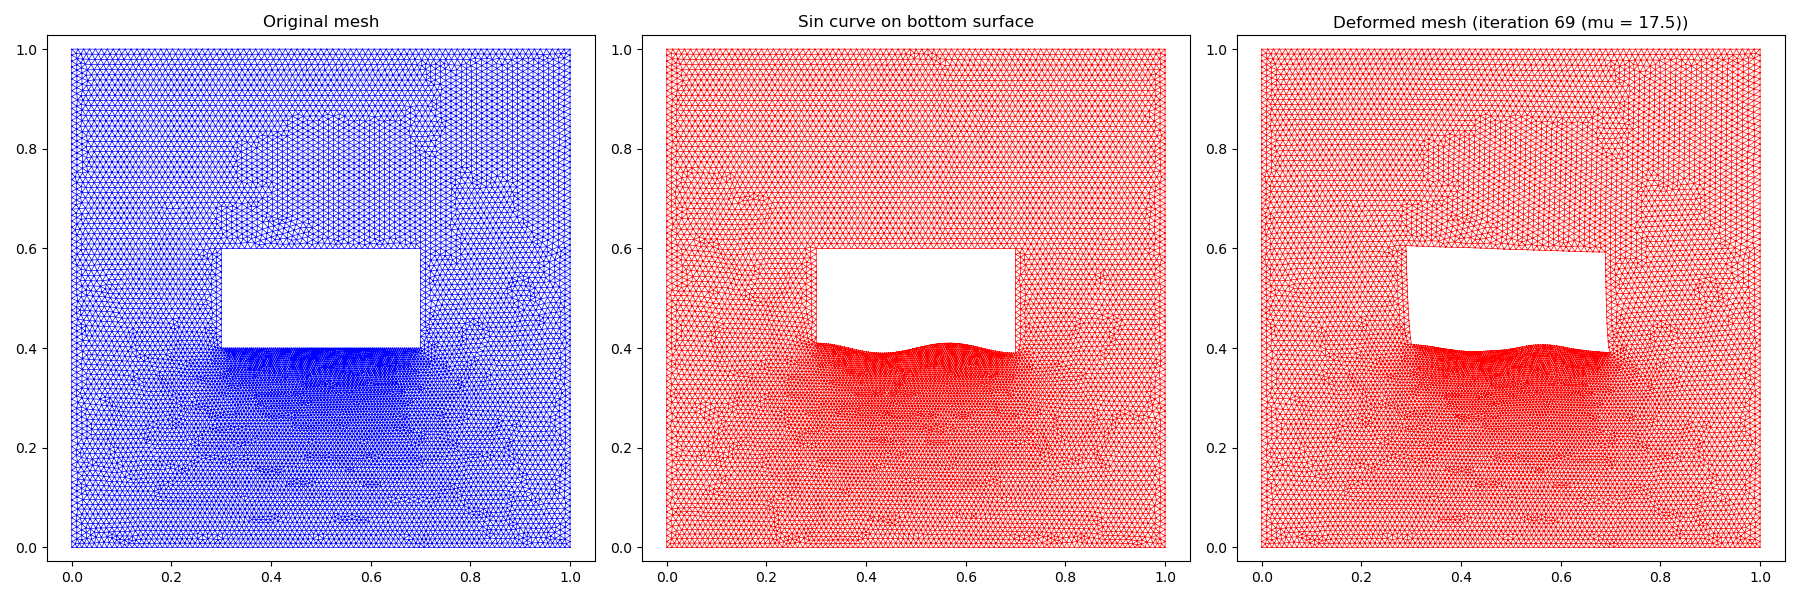
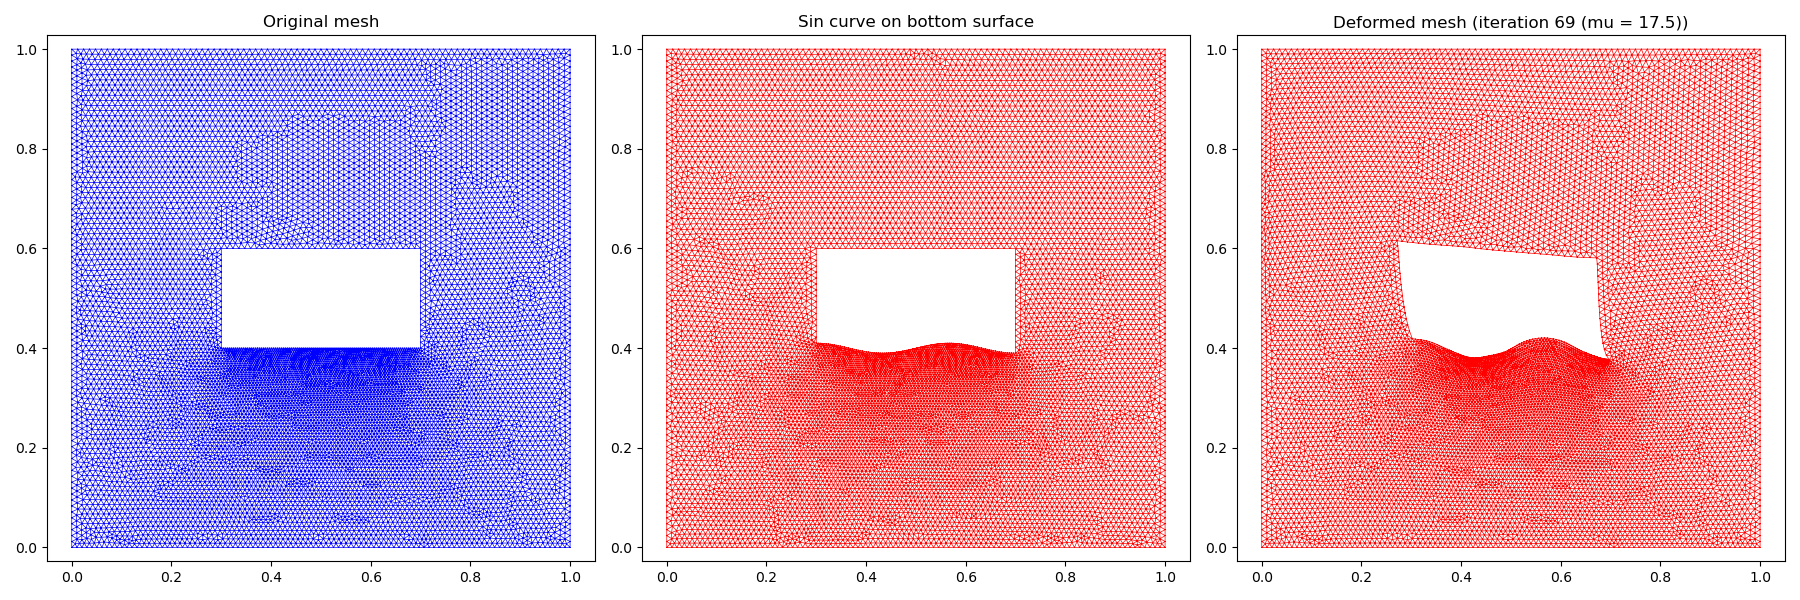
new results

Changed region(s): [[0.6844, 0.06, 0.9956, 0.9]]

diff --git a/opt_pipeline_obstacle/HH_shape_opt.py b/opt_pipeline_obstacle/HH_shape_opt.py
@@ -63,15 +63,15 @@ def load_forward_simulation_data_bottomwall(V_DG0):
     return u_ref_dg0
 
 # Try to convert the mesh 
-print(f"Converting square_with_rect_obstacle to XML format...")
+print(f"Converting square_with_gaussian_perturbed_rect to XML format...")
 result = subprocess.run([
     "dolfin-convert", 
-    f"meshes/square_with_rect_obstacle.msh", 
-    f"meshes/square_with_rect_obstacle.xml"
+    f"meshes/square_with_gaussian_perturbed_rect.msh", 
+    f"meshes/square_with_gaussian_perturbed_rect.xml"
 ], capture_output=True, text=True)
 
-mesh = Mesh(f"meshes/square_with_rect_obstacle.xml")
-boundary_markers = MeshFunction("size_t", mesh, f"meshes/square_with_rect_obstacle_facet_region.xml")
+mesh = Mesh(f"meshes/square_with_gaussian_perturbed_rect.xml")
+boundary_markers = MeshFunction("size_t", mesh, f"meshes/square_with_gaussian_perturbed_rect_facet_region.xml")
 
 # Create boundary mesh and design variables
 b_mesh = BoundaryMesh(mesh, "exterior")
@@ -94,7 +94,7 @@ def mesh_deformation(h, mesh_local, markers_local):
     bcs0 = [
         DirichletBC(V, Constant(1.0), markers_local, side_wall_marker),
         DirichletBC(V, Constant(1.0), markers_local, bottom_wall_marker),
-        DirichletBC(V, Constant(25), markers_local, obstacle_marker),
+        DirichletBC(V, Constant(50.0), markers_local, obstacle_marker),
     ]
     mu = Function(V, name="mu")
     LinearVariationalSolver(LinearVariationalProblem(a, L0, mu, bcs0)).solve()
@@ -124,7 +124,7 @@ def mesh_deformation(h, mesh_local, markers_local):
 def forward_solve(h_control):
     # Copy the “master” mesh and its facet markers
     mesh_copy = Mesh(mesh)
-    markers_copy = MeshFunction("size_t", mesh_copy, f"meshes/square_with_rect_obstacle_facet_region.xml")
+    markers_copy = MeshFunction("size_t", mesh_copy, f"meshes/square_with_gaussian_perturbed_rect_facet_region.xml")
 
     # Transfer h → volume and deform the copy since we want to preserve always the original
     h_vol = transfer_from_boundary(h_control, mesh_copy)

diff --git a/opt_pipeline_obstacle/mesh_deformation_viz.py b/opt_pipeline_obstacle/mesh_deformation_viz.py
@@ -42,9 +42,9 @@ def mesh_deformation(h, mesh_local, markers_local):
     a  = inner(grad(u), grad(v)) * dx
     L0 = Constant(0.0) * v * dx
     bcs0 = [
-        DirichletBC(V, Constant(2.0), markers_local, side_wall_marker),
+        DirichletBC(V, Constant(1.0), markers_local, side_wall_marker),
         DirichletBC(V, Constant(1.0), markers_local, bottom_wall_marker),
-        DirichletBC(V, Constant(50.0), markers_local, obstacle_marker),
+        DirichletBC(V, Constant(50), markers_local, obstacle_marker),
     ]
     mu = Function(V, name="mu")
     LinearVariationalSolver(LinearVariationalProblem(a, L0, mu, bcs0)).solve()
@@ -72,7 +72,7 @@ def mesh_deformation(h, mesh_local, markers_local):
     return s
 
 # Load the perturbed mesh
-mesh_perturbed = Mesh("meshes/square_with_perturbed_rect_obstacle.xml")
+mesh_perturbed = Mesh("meshes/square_with_gaussian_perturbed_rect.xml")
 
 # Make a copy of the mesh for deformation
 mesh_copy = Mesh(mesh)
@@ -96,9 +96,9 @@ plt.axis("equal")
 
 plt.subplot(1, 3, 3)
 plot(mesh_copy, color="r", linewidth=0.5)
-plt.title(f"Deformed mesh (iteration 50 (mu = 25))")
+plt.title(f"Deformed mesh (iteration 126 (mu = 50))")
 plt.axis("equal")
 
 plt.tight_layout()
-plt.savefig("outputs/rec_obs_perturbed mu = 25.png")
+plt.savefig("outputs/rec_obs_gaussian_perturbed mu = 50.png")
 plt.show()
